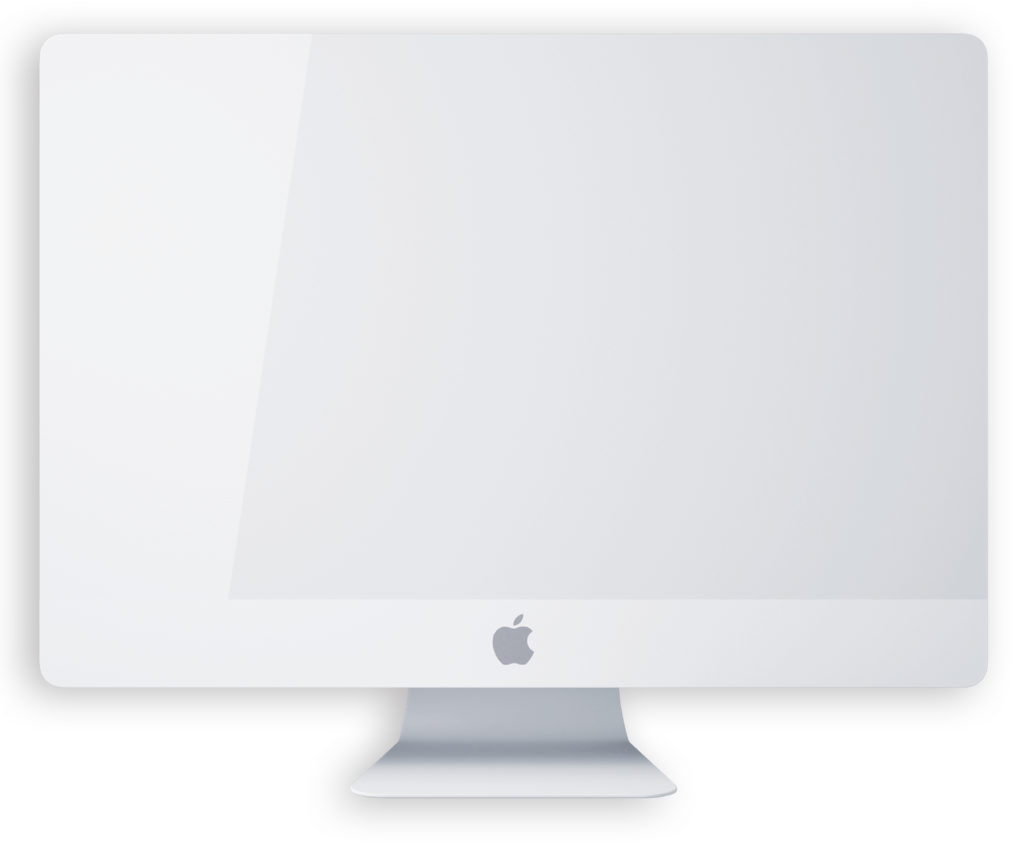
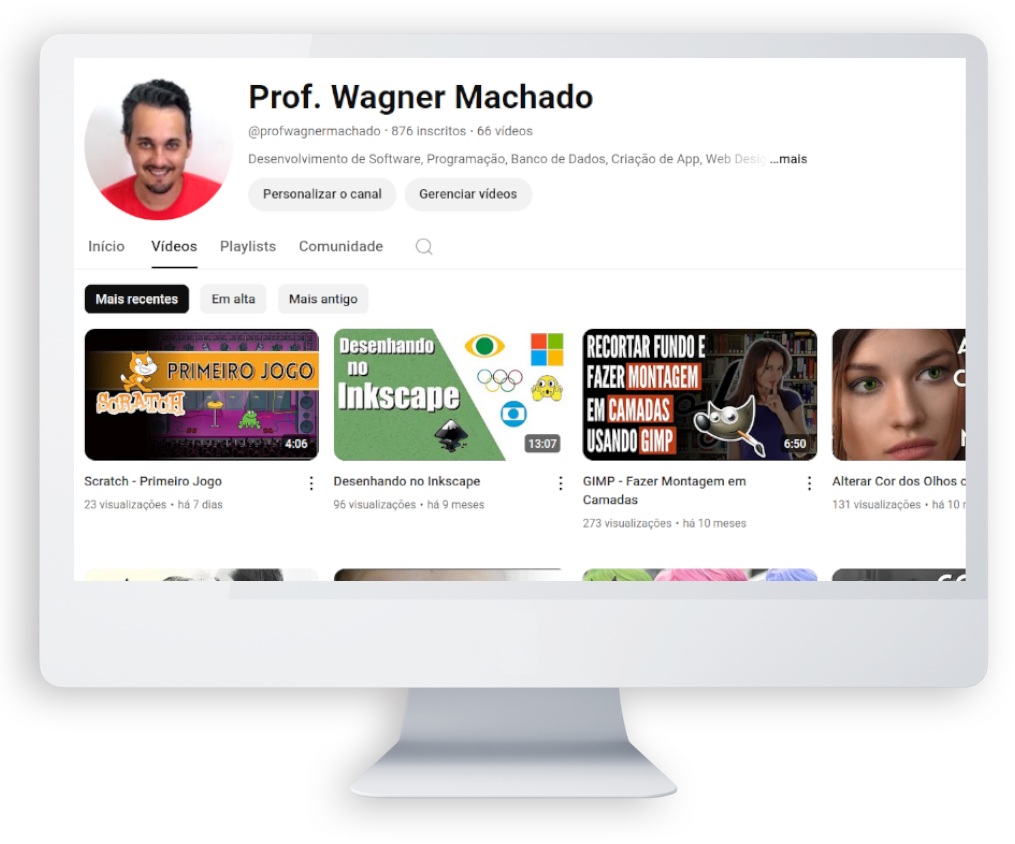
Add files via upload

diff --git a/index.html b/index.html
@@ -32,9 +32,9 @@
         <div class="header-container header">
             <a class="navbar-brand logo" href="#"> <img class="logo" src="assets/images/photo.png"/> </a>
             <div class="header-right">
-                <a class="navbar-item" href="#features">Cursos</a>
+                <a class="navbar-item" href="#features">Social</a>
                 <a class="navbar-item" href="#pricing">Destaques</a>
-                <a class="navbar-item" href="#team">Colaboradores</a>
+                <a class="navbar-item" href="#team">Projetos</a>
             </div>
         </div>
         <!--navigation-->
@@ -72,10 +72,10 @@
 
     <div class="features-container row">
 
-        <h2 class="features-headline light">Cursos</h2>
+        <h2 class="features-headline light">Social</h2>
 
         <div class="col-sm-4 feature">
-            <a href="https://www.youtube.com/@profwagnermachado">
+            <a href="https://www.youtube.com/@profwagnermachado" target="new">
             <div class="feature-icon feature-no-display">
                 <img class="feature-img" src="assets/images/YouTube.png">
             </div>
@@ -97,7 +97,7 @@
         </div>
 
         <div class="col-sm-4 feature">
-            <a href="http://lattes.cnpq.br/7045077075683706">
+            <a href="http://lattes.cnpq.br/7045077075683706" target="new">
             <div class="feature-icon feature-no-display feature-display-mid">
                 <img class="feature-img" src="assets/images/lattes.png">
             </div>
@@ -133,13 +133,14 @@
 
         <div class="white-section-text">
 
-            <h2 class="imac-section-header light">SIMPLE AND BEAUTIFUL</h2>
+            <h2 class="imac-section-header light">Desenvolvimento de Software e mais...</h2>
 
             <div class="imac-section-desc">
 
-            <span>  Use Nova theme for your next web project.
-                It is completely customizable so you can change any of the sections to fit your needs.
-                Nova Theme is Free for any kind of use, personal and commercial. Have fun and good luck!</span>
+            <span>
+                Desenvolvimento de Software, Programação, Banco de Dados, Criação de App, Web Design, Manipulação de Imagens Digitais, Edição de Vídeo, Processamento de Áudio, etc.
+
+            </span>
             </div>
         </div>
     </div>
@@ -151,68 +152,69 @@
 <div id="pricing" class="pricing-background">
 
     <h2 class="pricing-section-header light text-center">CURSOS EM DESTAQUE</h2>
-    <h4 class=" pricing-section-sub text-center light">Aproveite ofertas por tempo limitado</h4>
+    <h4 class=" pricing-section-sub text-center light">Cursos na área de desenvolvimento de software e mais</h4>
 
     <div class="pricing-table row">
+        
+
         <div class="col-sm-4">
             <div class="plan">
-                <h3 class="plan-title light">PROGRAMAÇÃO BÁSICA</h3>
-                <h4 class="plan-cost bold">15</h4>
-                <h5 class="monthly">per month</h5>
+                <h3 class="plan-title light">DISPOSITIVOS MÓVEIS</h3>
+                <h4 class="plan-cost bold">0</h4>
+                <h5 class="monthly">gratuito</h5>
                 <ul class="plan-features">
-                    <li>Up to 7 Projects</li>
-                    <li>2 Additional Developers</li>
+                    <li>Mais de 10 aulas gravadas</li>
+                    <li>13 mil visualizações</li>
                 </ul>
                 <div class="plan-price-div text-center">
                     <div class="choose-plan-div">
-                        <a class="plan-btn light" href="#">
-                            Get Started
+                        <a class="plan-btn light" target="new" href="https://youtube.com/playlist?list=PLK9MWsE3ev06gntM1UQme9_ltjxCeUiew&feature=shared">
+                            Entrar
+                        </a>
+                    </div>
+                </div>
+            </div><!--pro-plan--->
+        </div><!--col-->
+
+        <div class="col-sm-4">
+            <div class="mid-plan">
+                <h3 class="plan-title light">BANCO DE DADOS</h3>
+                <h4 class="plan-cost bold">0</h4>
+                <h5 class="monthly">gratuito</h5>
+                <ul class="plan-features">
+                    <li>Mais de 10 aulas gravadas</li>
+                    <li>15 mil visualizações</li>
+                </ul>
+                <div class="plan-price-div text-center">
+                    <div class="choose-plan-div">
+                        <a class="plan-btn light" target="new" href="https://youtube.com/playlist?list=PLK9MWsE3ev07vJus68hqclQoEPZcNKlC8&feature=shared">
+                            Entrar
+                        </a>
+                    </div>
+                </div>
+            </div><!--pro-plan--->
+        </div><!--col-->
+
+        <div class="col-sm-4">
+            <div class="plan">
+                <h3 class="plan-title light">Edição de Imagem, Áudio e Vídeo</h3>
+                <h4 class="plan-cost bold">0</h4>
+                <h5 class="monthly">gratuito</h5>
+                <ul class="plan-features">
+                    <li>Mais de 10 aulas gravadas</li>
+                    <li>4,4 mil visualizações</li>
+                </ul>
+                <div class="plan-price-div text-center">
+                    <div class="choose-plan-div">
+                        <a class="plan-btn light" target="new" href="https://youtube.com/playlist?list=PLK9MWsE3ev05X2wKS7x6REmAZA1xmBxyk&feature=shared">
+                            Entrar
                         </a>
                     </div>
                 </div>
             </div><!--basic-plan--->
         </div><!--col-->
 
-        <div class="col-sm-4">
-            <div class="mid-plan">
-                <h3 class="plan-title light">BANCO DE DADOS</h3>
-                <h4 class="plan-cost bold">55</h4>
-                <h5 class="monthly">per month</h5>
-                <ul class="plan-features">
-                    <li>Up to 25 Projects</li>
-                    <li>2 Additional Developers</li>
-                    <li>Unlimited Support</li>
-                </ul>
-                <div class="plan-price-div text-center">
-                    <div class="choose-plan-div">
-                        <a class="plan-btn light" href="#">
-                            Get Started
-                        </a>
-                    </div>
-                </div>
-            </div><!--pro-plan--->
-        </div><!--col-->
-
-        <div class="col-sm-4">
-            <div class="plan">
-                <h3 class="plan-title light">DISPOSITIVOS MÓVEIS</h3>
-                <h4 class="plan-cost bold">75</h4>
-                <h5 class="monthly">per month</h5>
-                <ul class="plan-features">
-                    <li>Up to 25 Projects</li>
-                    <li>2 Additional Developers</li>
-                    <li>Unlimited Support</li>
-                    <li>1.5GB Disk Space</li>
-                </ul>
-                <div class="plan-price-div text-center">
-                    <div class="choose-plan-div">
-                        <a class="plan-btn light" href="#">
-                            Get Started
-                        </a>
-                    </div>
-                </div>
-            </div><!--pro-plan--->
-        </div><!--col-->
+        
 
     </div>  <!--pricing-table-->
 
@@ -222,53 +224,47 @@
   ================================================== -->
 
 <div id="team" class="team">
-    <h2 class="team-section-header light text-center">Colaboradores</h2>
+    <h2 class="team-section-header light text-center">Projetos</h2>
 
     <div class="team-container row">
 
 
         <div class="col-sm-4 team-member">
-            <img src="assets/images/cto.png">
+            <img src="assets/images/js.png">
             <div class="team-member-text">
-                <h4 class="team-member-position light">CTO</h4>
-                <h5 class="bold">Johnny B Good</h5>
-                <p class="light">The brains behind the whole operation</p>
-                <a href="http://www.twitter.com"><img class="team-social-icon" src="assets/images/team-twitter.svg"></a>
-                <a href="http://www.facebook.com"><img class="team-social-icon"
-                                                       src="assets/images/team-facebook.svg"></a>
-                <a href="https://plus.google.com/"><img class="team-social-icon"
-                                                        src="assets/images/team-google.svg"></a>
+                <h4 class="team-member-position light">JavaScript</h4>
+                <h5 class="bold">Web Responsivo com JavaScript</h5>
+                <p class="light">Exemplos de Programação Web com Javascript</p>
+                <a href="https://machadowma.github.io/javascript/" target="new">Demo</a>
+                &nbsp;|&nbsp;
+                <a href="https://github.com/machadowma/javascript" target="new">Source</a>
+            </div>
+
+        </div>
+
+        <div class="col-sm-4 team-member">
+            <img src="assets/images/android.png">
+            <div class="team-member-text">
+                <h4 class="team-member-position light">Android Studio</h4>
+                <h5 class="bold">CrudApplication</h5>
+                <p class="light">Tutorial Android Studio/SQLite para construir um cadastro CRUD</p>
+                <a href="https://youtube.com/playlist?list=PLK9MWsE3ev06gntM1UQme9_ltjxCeUiew&feature=shared" target="new">Aulas</a>
+                &nbsp;|&nbsp;
+                <a href="https://github.com/machadowma/CrudApplication" target="new">Source</a>
             </div>
         </div>
 
         <div class="col-sm-4 team-member">
-            <img src="assets/images/ceo.png">
+            <img src="assets/images/anotamob.png">
             <div class="team-member-text">
-                <h4 class="team-member-position light">CEO</h4>
-                <h5 class="bold">Roll Over Beethoven</h5>
-                <p class="light">The one that puts it all together </p>
-                <a href="http://www.twitter.com"><img class="team-social-icon" src="assets/images/team-twitter.svg"></a>
-                <a href="http://www.facebook.com"><img class="team-social-icon"
-                                                       src="assets/images/team-facebook.svg"></a>
-                <a href="https://plus.google.com/"><img class="team-social-icon"
-                                                        src="assets/images/team-google.svg"></a>
+                <h4 class="team-member-position light">Android Studio</h4>
+                <h5 class="bold">AnotaMOB</h5>
+                <p class="light">Aplicativo para realizar as anotações do Método de Ovulação Billings. </p>
+                <a href="https://github.com/machadowma/AnotaMOB" target="new">Source</a>
             </div>
         </div>
 
-        <div class="col-sm-4 team-member">
-            <img src="assets/images/cfo.png">
-            <div class="team-member-text">
-                <h4 class="team-member-position light">CFO</h4>
-                <h5 class="bold">Chuck Berry</h5>
-                <p class="light">The guy with his hand on the wallet</p>
-                <a href="http://www.twitter.com"><img class="team-social-icon" src="assets/images/team-twitter.svg"></a>
-                <a href="http://www.facebook.com"><img class="team-social-icon"
-                                                       src="assets/images/team-facebook.svg"></a>
-                <a href="https://plus.google.com/"><img class="team-social-icon"
-                                                        src="assets/images/team-google.svg"></a>
-            </div>
-
-        </div>
+        
         <! -- .row -->
 
     </div> <!--team-container--->
@@ -279,6 +275,9 @@
   ================================================== -->
 
 <div class="blue-section">
+
+    <br><br><br>
+    <!-- 
     <h3 class="blue-section-header bold"> Download FREE!</h3>
     <h4 class="blue-section-subtext light">Take it for a ride for any of your projects!</h4>
 
@@ -292,6 +291,9 @@
             </div>
         </form>
     </div>
+
+    -->
+
     <!--email-form-div-->
 
     <div id="newsletter-loading-div"></div>
